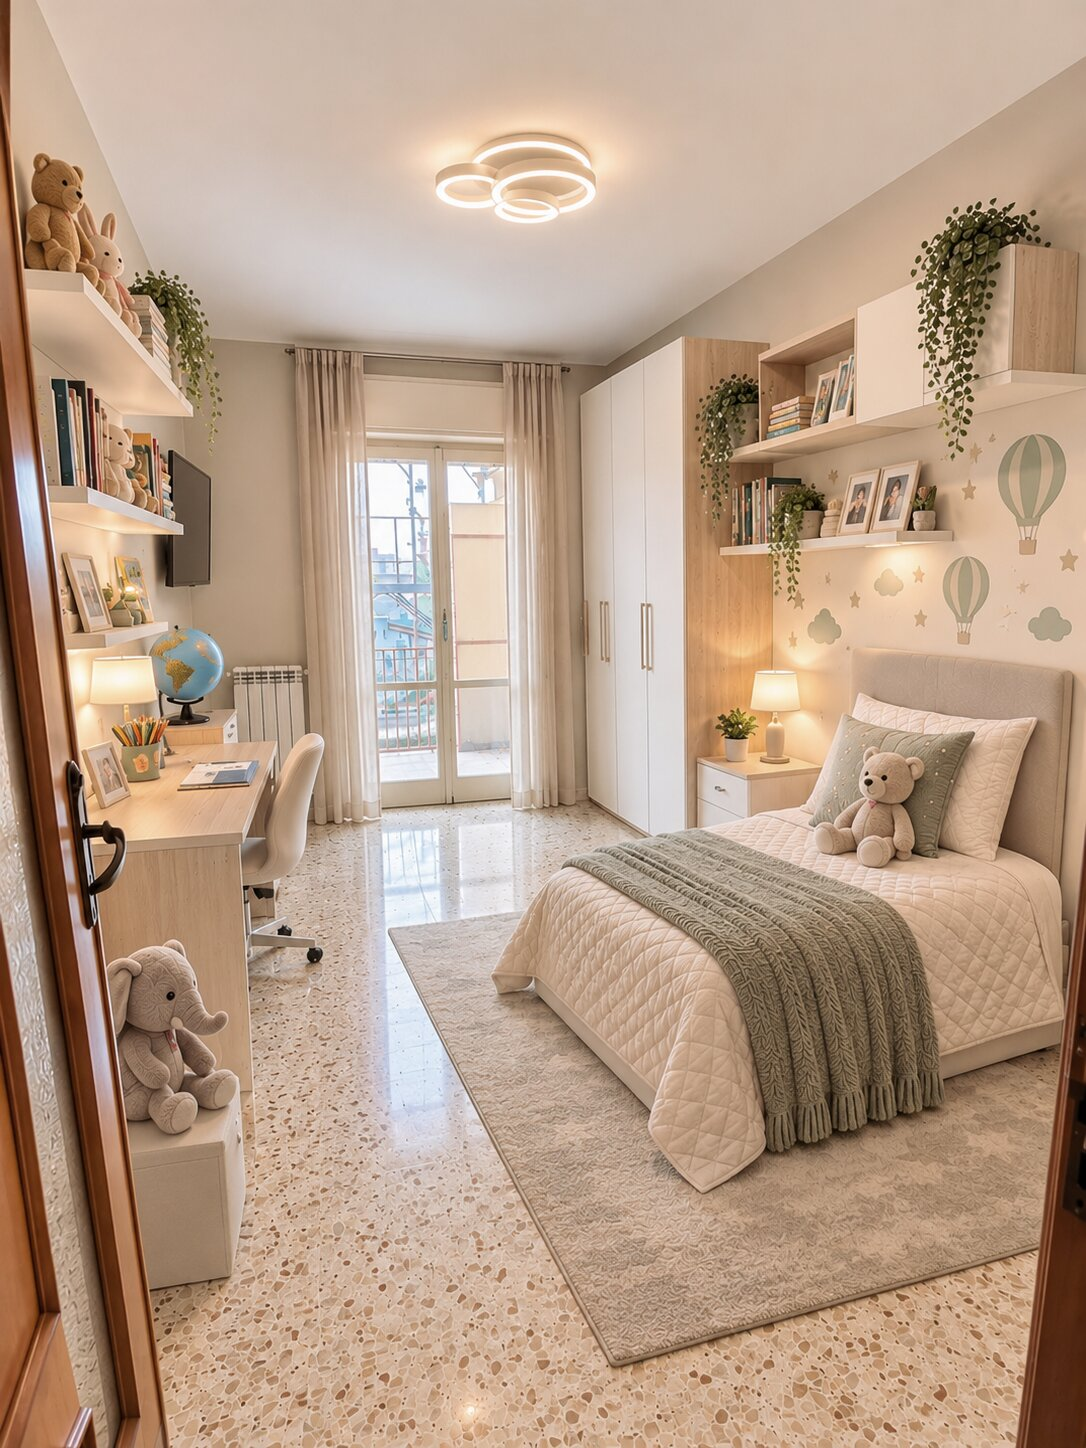
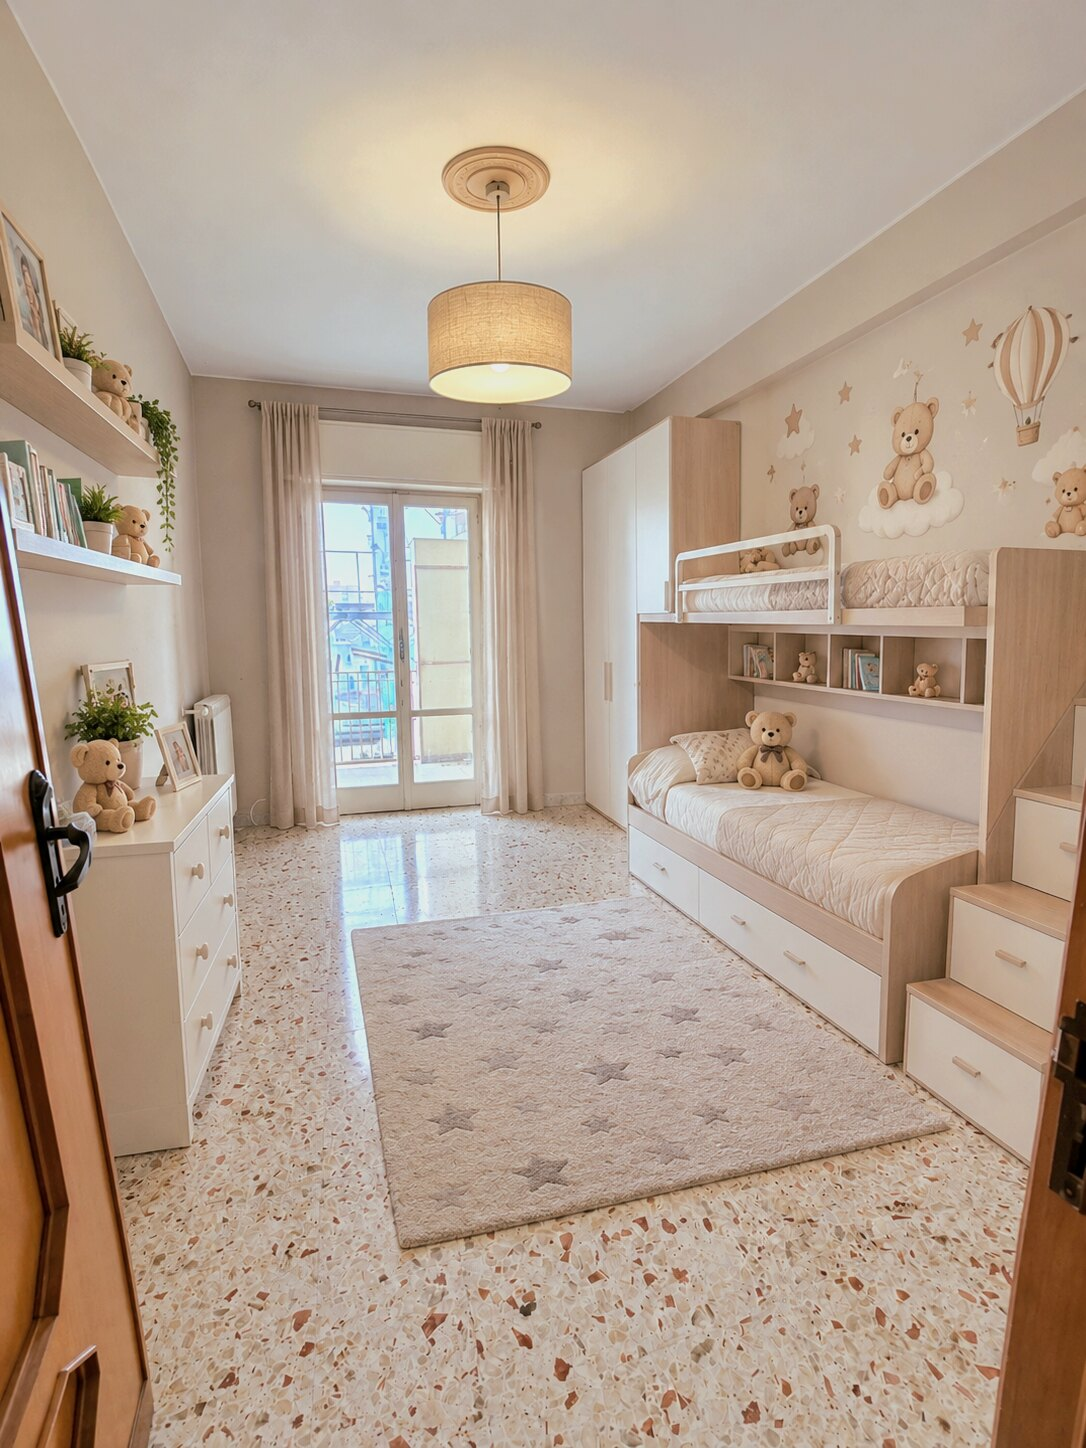
Render 3D della cameretta (stanza con balcone): nuova immagine
Claude-Session: https://claude.ai/code/session_015e9Vidr4mFy76mmRUH6mFx

diff --git a/src/data/galleryData.ts b/src/data/galleryData.ts
@@ -144,7 +144,7 @@ export const renderData: GalleryItem[] = [
   { id: 12, src: "/images/render/render-12-bagno-esterno.jpg", title: "Bagno esterno", caption: "Secondo bagno moderno con sanitari sospesi e mobile in rovere.", alt: "Render del bagno esterno rinnovato" },
   { id: 13, src: "/images/render/render-13-garage.jpg", title: "Garage", caption: "Box auto tinteggiato e illuminato: pulito e ordinato.", alt: "Render del garage tinteggiato" },
   { id: 14, src: "/images/render/render-14-cucina.jpg", title: "Cucina", caption: "Cucina lineare in legno chiaro con tavolo da pranzo e portafinestra sul balcone.", alt: "Render della cucina arredata" },
-  { id: 15, src: "/images/render/render-19-cameretta-balcone.jpg", title: "Cameretta", caption: "Stanza con balcone trasformata in cameretta con scrivania, armadio a tutta altezza e letto singolo.", alt: "Render della stanza con balcone arredata come cameretta" },
+  { id: 15, src: "/images/render/render-19-cameretta-balcone.jpg", title: "Cameretta", caption: "Stanza con balcone trasformata in cameretta con letto a castello, armadio a tutta altezza e tappeto morbido.", alt: "Render della stanza con balcone arredata come cameretta" },
   { id: 16, src: "/images/render/render-20-camera-soleggiata.jpg", title: "Camera da letto", caption: "Stanza soleggiata arredata come camera matrimoniale, con boiserie e tessili caldi.", alt: "Render della stanza soleggiata arredata come camera da letto" },
 ];
 
